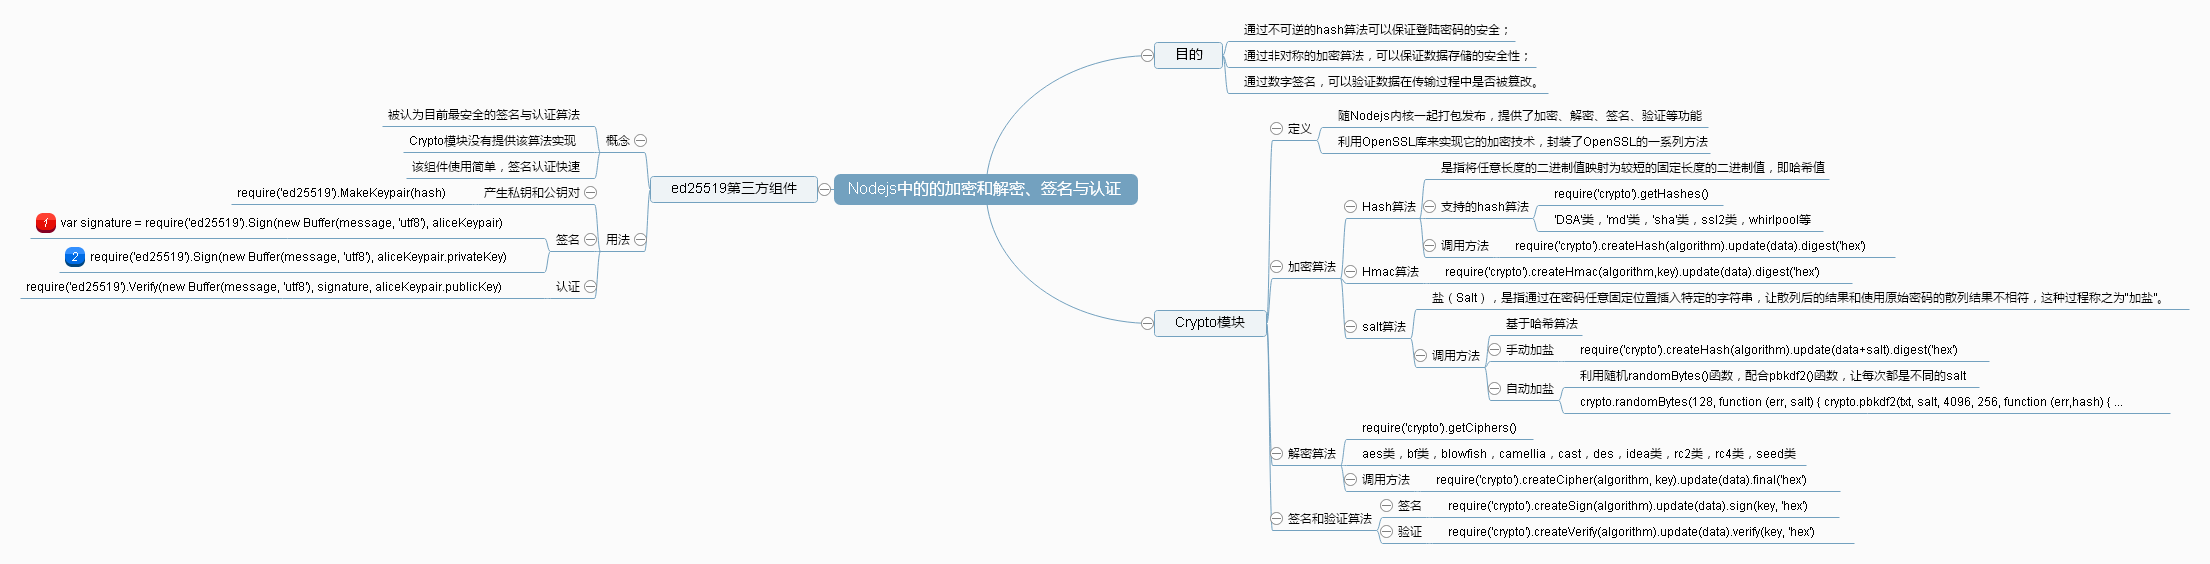
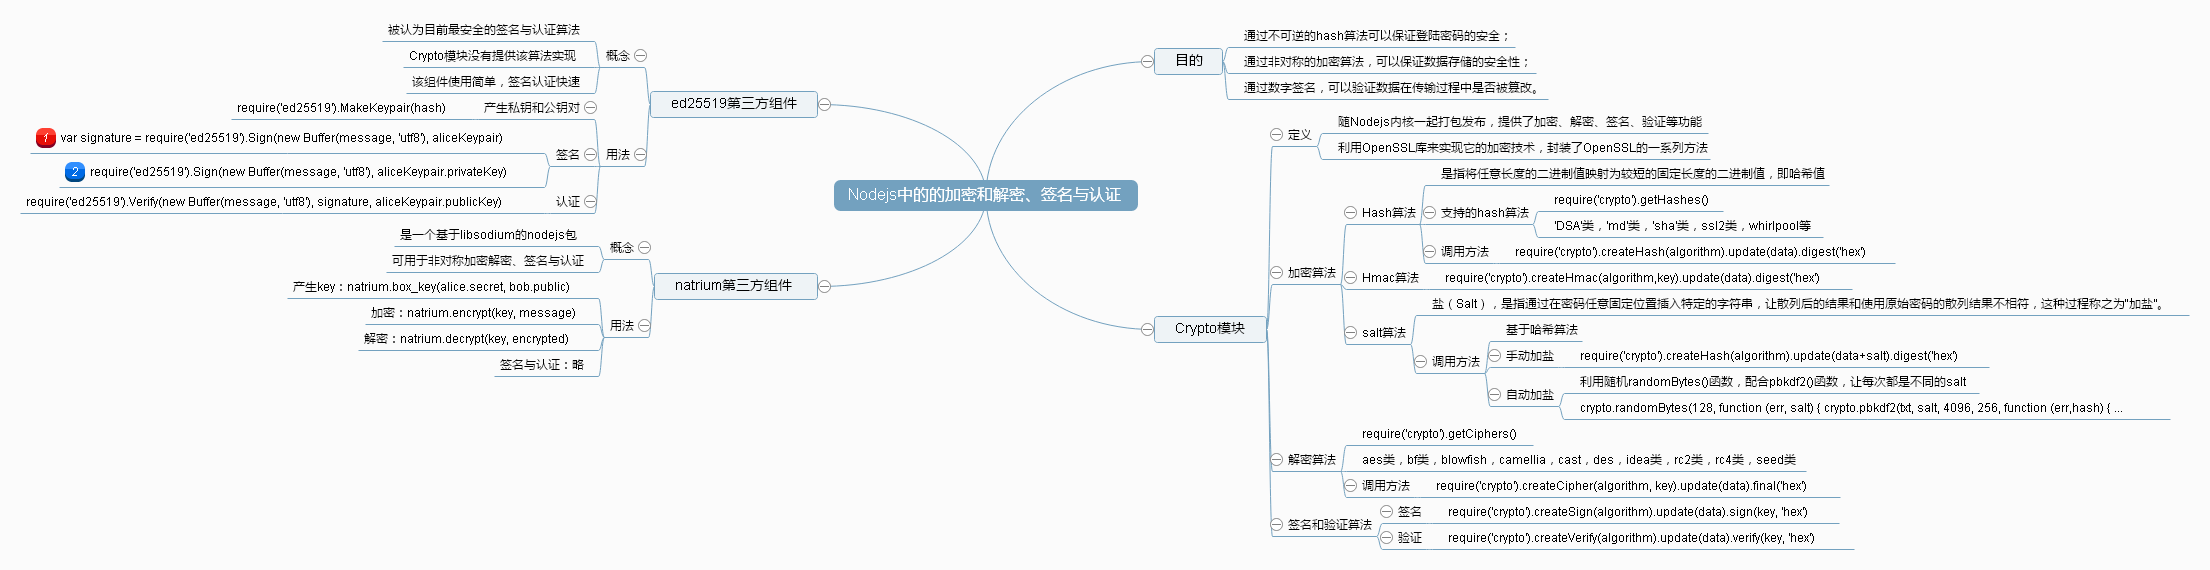
完成第10篇

diff --git a/4-技术分享/3-三张图让你全面掌握加密解密技术.md b/4-技术分享/3-三张图让你全面掌握加密解密技术.md
@@ -1,0 +1,178 @@
+# 三张图让你全面掌握加密解密技术
+
+
+发布本文时，比特币价格2746元（422美元）。为什么一个凭空设计出来的加密货币如此受追捧？微软、IBM等巨头纷纷进入，它到底有什么诱人之处？为什么尝试了解比特币的技术人员，都会被深深吸引？《Nodejs开发加密货币》，正尝试回答这些问题。**永远免费、开源！**
+
+## 前言
+
+加密解密技术，涉及面很广，这里，把前人的研究成果汇总起来，通过图表的形式来帮助记忆和筛选，方便日后使用。内容主要包括两个方面，一个是场景与算法，一个是Nodejs的相关模块或组件。共三张图，具体请看：
+
+## 1.加密解密纵览
+
+下面这张图，是在 《密码学一小时必知》（见参考）基础上完成的，原作者是Colin Percival，密码学方面的专家，FreeBSD项目的安全长官，Tarsnap在线备份服务的创始人，scrypt密钥衍生算法的作者，非常值得参考学习。译者是 [@byronhe][] ,翻译贡献这样的好文，包括下面有关论述场景与算法的实践指南，值得去为他点赞。
+
+这张图，可以告诉你密码学中的概念，目的，案例，以及最佳的实践经验。
+
+![加密解密.png][]
+
+## 2.场景与算法
+
+这张图，是基于 《现代密码学实践指南(2015年)》（见参考） 完成的。可以说，在上一张图的基础上，更加具体，特别是对于场景的描述，让码农可以更加方便的作出正确的选择，值得拥有。其中，标注序号的，是有优先级的。
+
+![场景与算法选择.png][]
+
+## 3.Nodejs中的的加密和解密、签名与认证
+
+这张图，主要参考了官方文档，也包括 《浅谈nodejs中的Crypto模块》（见参考） ，其中大部分都是我个人的理解和组合，如果你使用Nodejs，基本上拿来看看图解，就能直接用了。特别是，其中提供了`ed255519`组件，如果你看了上面两篇实践，就知道这是签名与认证最好的选择，因此这里可以肯定的说，Crypto模块的签名与认证还是暂时不要用吧。`Ebookcoin`就是这么实践的，上一篇源码介绍的很详细。
+
+![Nodejs中的的加密和解密、签名与认证.png][]
+
+## 4.趣味实践
+
+还是用[上篇][]的例子吧，男生叫做Bob，他的女友叫Alice。
+
+#### 场景
+
+Bob想向女友表达埋藏已久的心声“I love you！”，但碍于男人的颜面（男人都这样吗？），不好意思当面说出口，只好加密传输。这里基于一个可行的假设，就是基于公钥和私钥的。
+
+#### 需求
+
+- 加密：不能让别人看到;
+- 解密：女友可以看到;
+- 签名：得向女友证明是自己发的，防止中间人抢票;
+- 认证：女友收到信息，可以验明正身，知道是Bob所发。
+
+#### 方案
+
+利用以上三张图，我们可以很快拿出技术方案。
+
+- 加密与解密技术：图中显示说，这种加密之后又直接解密的场景非常少见。技术上，最好使用NaCl，其次是libsodium（背后仍然是NaCl），但是搜索了一下github，Nodejs社区还没有相关NaCl稳定的封装包，libsodium倒是有一个Natrium（但是，写作本文时，没有安装试验成功）。因此，只能选择使用Crypto简单加密和解密。
+- 签名与验证技术：当然最好的选择是`ed25519`了。这里作为签名和验证。
+
+#### 编码
+
+新建一个简单的Nodejs工程， 代码在这里： https://github.com/imfly/nodejs-practice/blob/master/crypto/index.js
+
+(1)生成密钥对
+
+Bob没有使用随机字符串，而是使用一个密码，并采取SHA256算法生成密钥对，请看思维导图，有关hash的部分。
+
+```
+var crypto = require('crypto');
+var ed25519 = require('ed25519');
+
+var bobsPassword = 'I like the cute monkeys!';
+var hash = crypto.createHash('sha256').update(bobsPassword).digest();
+var bobKeypair = ed25519.MakeKeypair(hash);
+```
+
+(2)给信息加密和签名
+
+通常是先加密后签名。
+
+我们这里使用Crypto给信息进行了简单加密，把Bob的公钥作为加密键值（但是既然是公钥，谁会不知道呢，除非Bob只把公钥给了Alice），可能还得Bob告诉Alice使用什么算法来解密，如果碰上野蛮女友，弄不好又会得到一顿臭骂（世界怎么了？）。
+
+```
+var message = 'Hi Alice, I love you!';
+var msgCiphered = cipher('aes192', bobKeypair.publicKey, message); //公钥进行加密，如果是Natrium，这里就是私钥加密
+var signature = ed25519.Sign(new Buffer(msgCiphered, 'utf8'), bobKeypair.privateKey); //私钥进行签名
+```
+
+(3)给Alice发送签名信息
+
+这个就各显神通了。
+
+(4)Alice验证并解密
+
+通常是先验证后解密。
+
+作为Bob的好朋友，Alice有它的公钥(这点事都做不到，只能一辈子光棍了)，可以验证。
+
+```
+if (ed25519.Verify(new Buffer(msgCiphered, 'utf8'), signature, bobKeypair.publicKey)) {
+	// 验证函数返回了true，通过验证
+  var msg = decipher('aes192', bobKeypair.publicKey, msgCiphered);  //使用Bob的公钥解密
+
+	console.log('签名合法，信息来自Bob！');
+  console.log('Bob said: ', msg); //显示信息
+} else {
+	// Bob不相信，验证函数返回了false.
+	console.log('签名不合法！');
+}
+```
+
+(5)补充代码
+
+上面用到的Crypto的加密解密方法：
+
+```
+//解密
+function (algorithm, key, buffer){
+    var encrypted = "";
+    var cip = crypto.createCipher(algorithm, key);
+    encrypted += cip.update(buffer, 'utf8', 'hex');
+    encrypted += cip.final('hex');
+    return encrypted;
+}
+
+//解密
+function decipher(algorithm, key, encrypted){
+    var decrypted = "";
+    var decipher = crypto.createDecipher(algorithm, key);
+    decrypted += decipher.update(encrypted, 'hex', 'utf8');
+    decrypted += decipher.final('utf8');
+    return decrypted;
+}
+```
+
+(6)运行实例
+
+使用下面的命令，可以运行上述代码：
+
+```
+$ git clone https://github.com/imfly/nodejs-practice
+$ cd nodejs-practice
+$ npm install
+$ node crypto/
+```
+
+输出结果：
+
+```
+签名合法，信息来之Bob！
+Bob said:  Hi Alice, I love you!
+```
+## 链接
+
+**本系列文章即时更新，若有兴趣，可通过`Star`收藏，^-^**
+
+本源文地址： https://github.com/imfly/bitcoin-on-nodejs
+
+电子书阅读： [http://book.btcnodejs.com](http://book.btcnodejs.com/4-技术分享/3-三张图让你全面掌握加密解密技术.html)
+
+电子书下载： [下载页面][] [PDF文件][] [ePub文件][] [Mobi文件][]
+
+[PDF文件]: https://www.gitbook.com/download/pdf/book/imfly/bitcoin-on-nodejs
+[ePub文件]: https://www.gitbook.com/download/epub/book/imfly/bitcoin-on-nodejs
+[Mobi文件]: https://www.gitbook.com/download/mobi/book/imfly/bitcoin-on-nodejs
+[下载页面]: https://www.gitbook.com/book/imfly/bitcoin-on-nodejs/details
+
+## 参考
+
+[Ed25519第三方组件](https://github.com/dazoe/ed25519)
+
+[Ed25519官方网站](http://ed25519.cr.yp.to/)
+
+[现代密码学实践指南(2015年)](http://blog.helong.info/blog/2015/06/05/modern-crypto/)
+
+[密码学一小时必知](http://blog.helong.info/blog/2015/04/12/translate-Everything-you-need-to-know-about-cryptgraphy-in-1-hour/)
+
+[浅谈nodejs中的Crypto模块](https://cnodejs.org/topic/504061d7fef591855112bab5)
+
+[@byronhe]:https://github.com/byronhe
+
+[加密解密.png]:../styles/images/naotu/加密解密.png
+[场景与算法选择.png]:../styles/images/naotu/场景与算法选择.png
+[Nodejs中的的加密和解密、签名与认证.png]:../styles/images/naotu/Nodejs中的的加密和解密、签名与认证.png
+
+[上篇]: [http://book.btcnodejs.com](http://book.btcnodejs.com/3-源码解读/4-在Nodejs中使用加密解密技术.html)

diff --git a/SUMMARY.md b/SUMMARY.md
@@ -21,7 +21,7 @@
     * [async介绍](/4-技术分享/2-async介绍.md)
     * [必须逾越的各种坑](/4-技术分享/20-必须逾越的各种坑.md)
     * [24-总结关于CPU优化、数据库使用、多平台、客户端开发等源码未涉及的专项技术讨论](/4-技术分享/21-24-总结关于CPU优化、数据库使用、多平台、客户端开发等源码未涉及的专项技术讨论.md)
-    * [图解加密解密技术](/4-技术分享/3-图解加密解密技术.md)
+    * [三张图让你全面掌握加密解密技术](/4-技术分享/3-三张图让你全面掌握加密解密技术.md)
 - [概念解析](/5-概念解析/readme.md)
     * [加密货币P2P网络](/5-概念解析/1-加密货币P2P网络.md)
 - [结束语](/6-结束语/readme.md)

diff --git a/Readme.md b/Readme.md
@@ -3,7 +3,7 @@
 
 ## 日志
 
-- [x] 发布第10篇 2016-03-16 <当前>
+- [x] 发布第10篇 2016-03-17 <当前>
 - [x] 发布第9篇 2016-03-10
 - [x] 完成1-8篇
 
